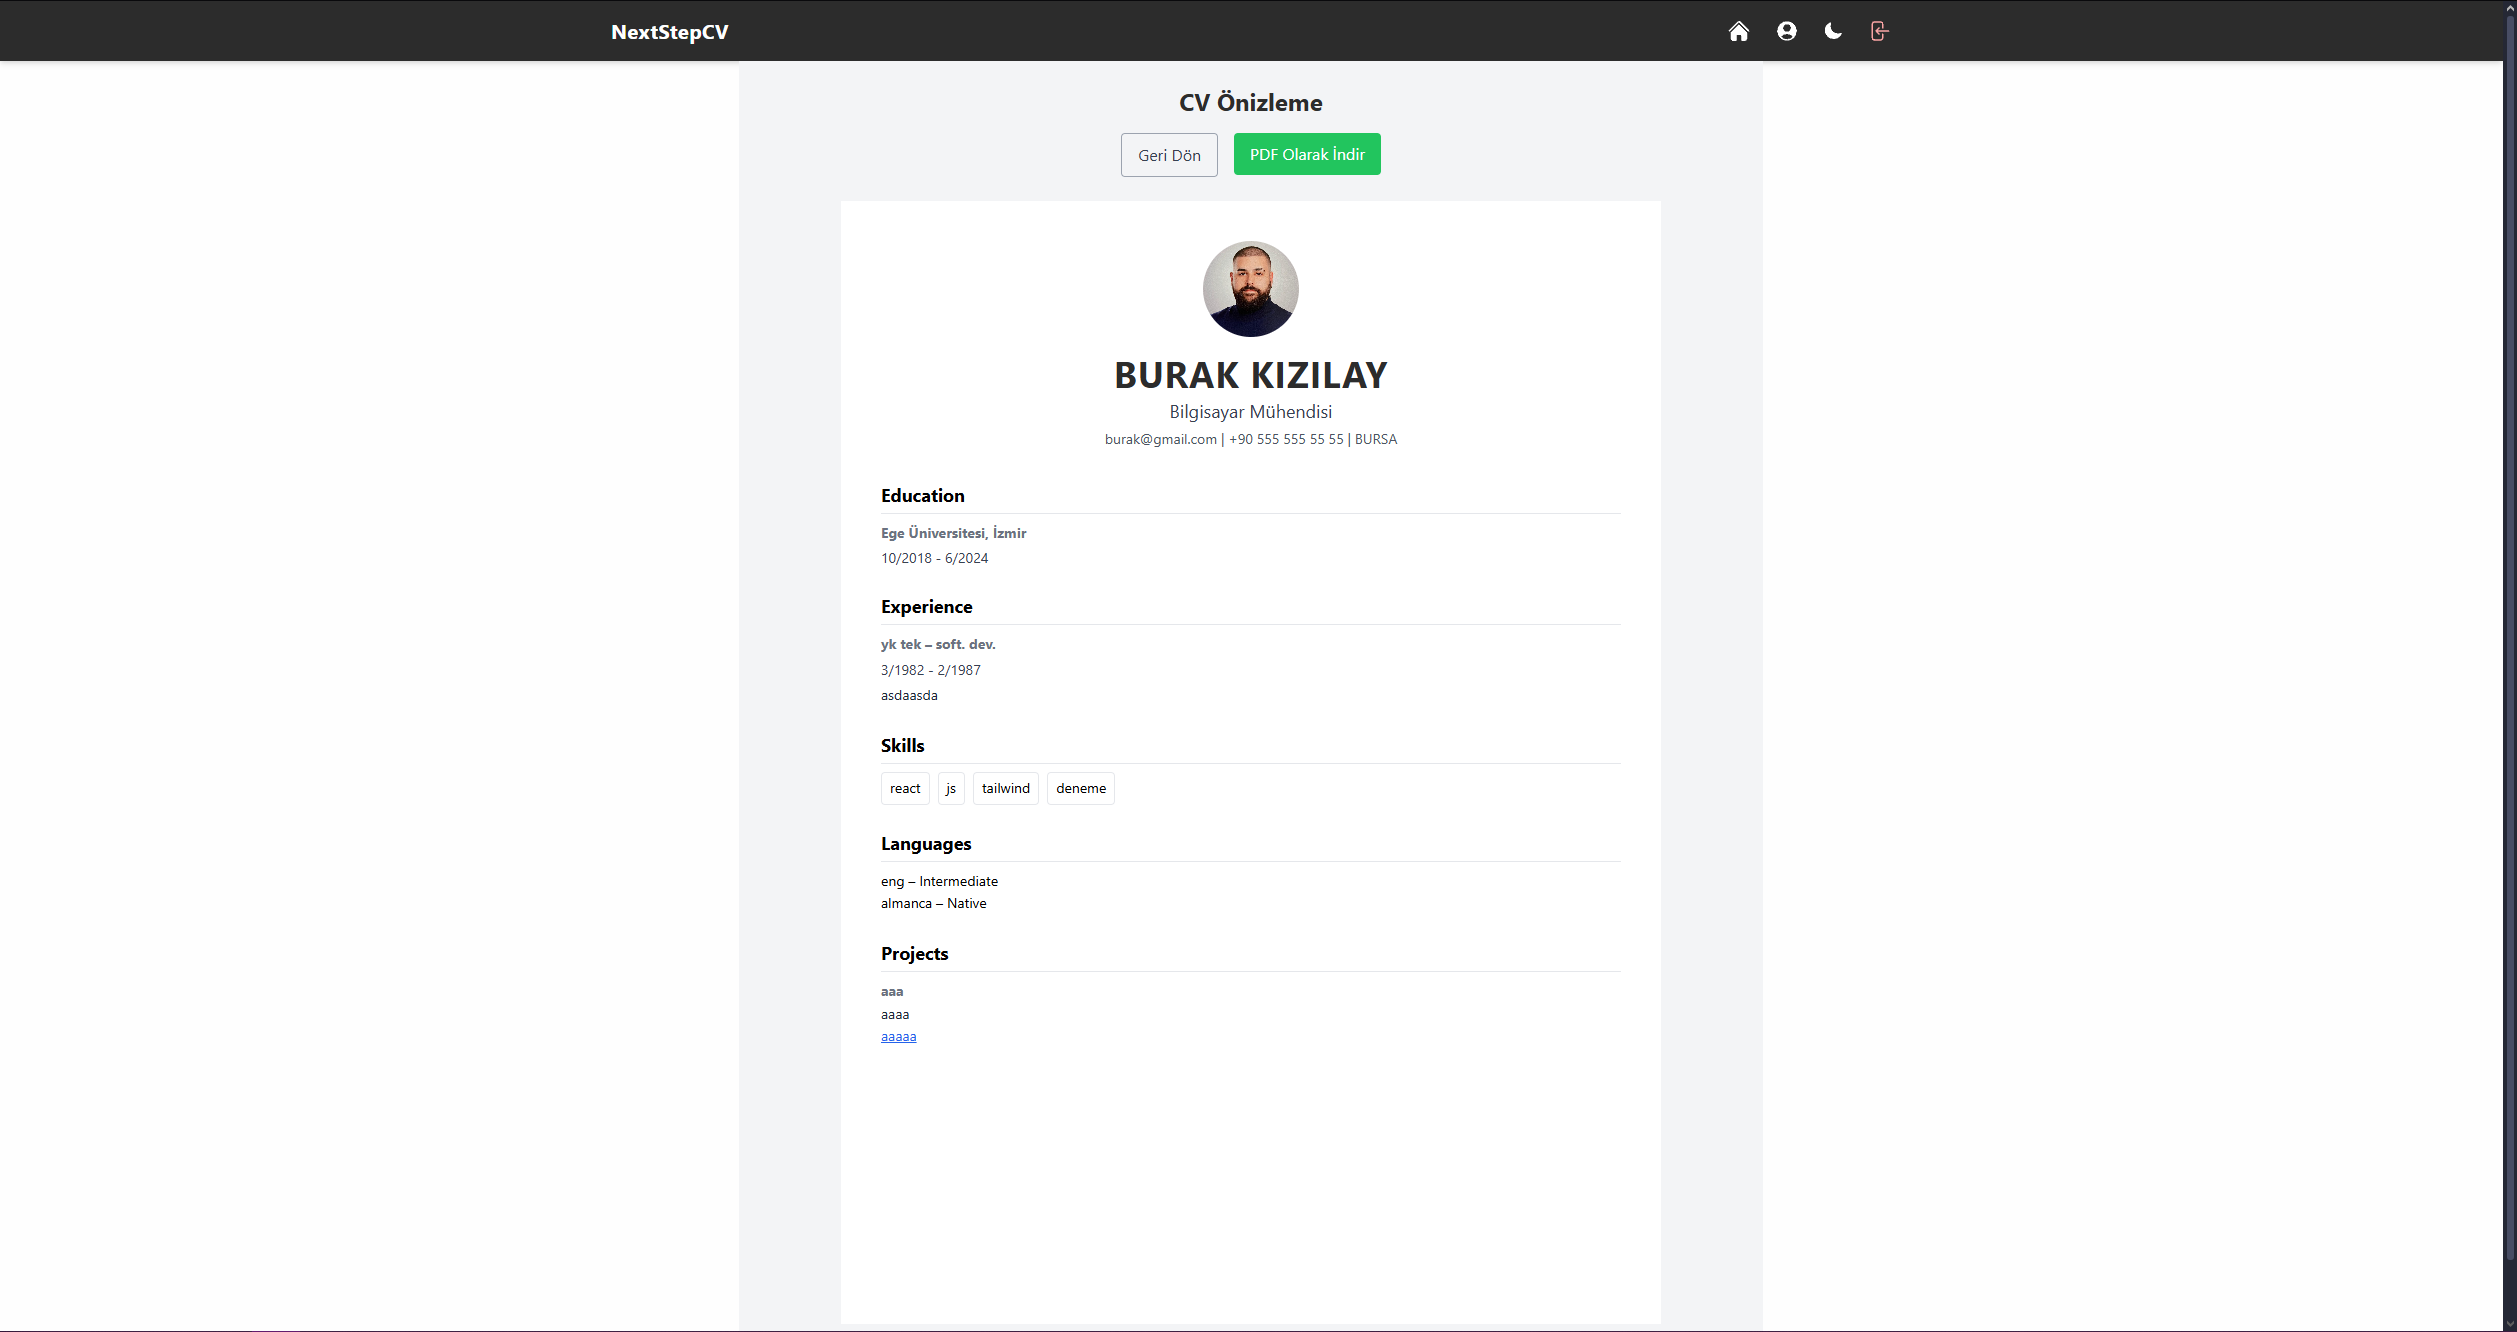
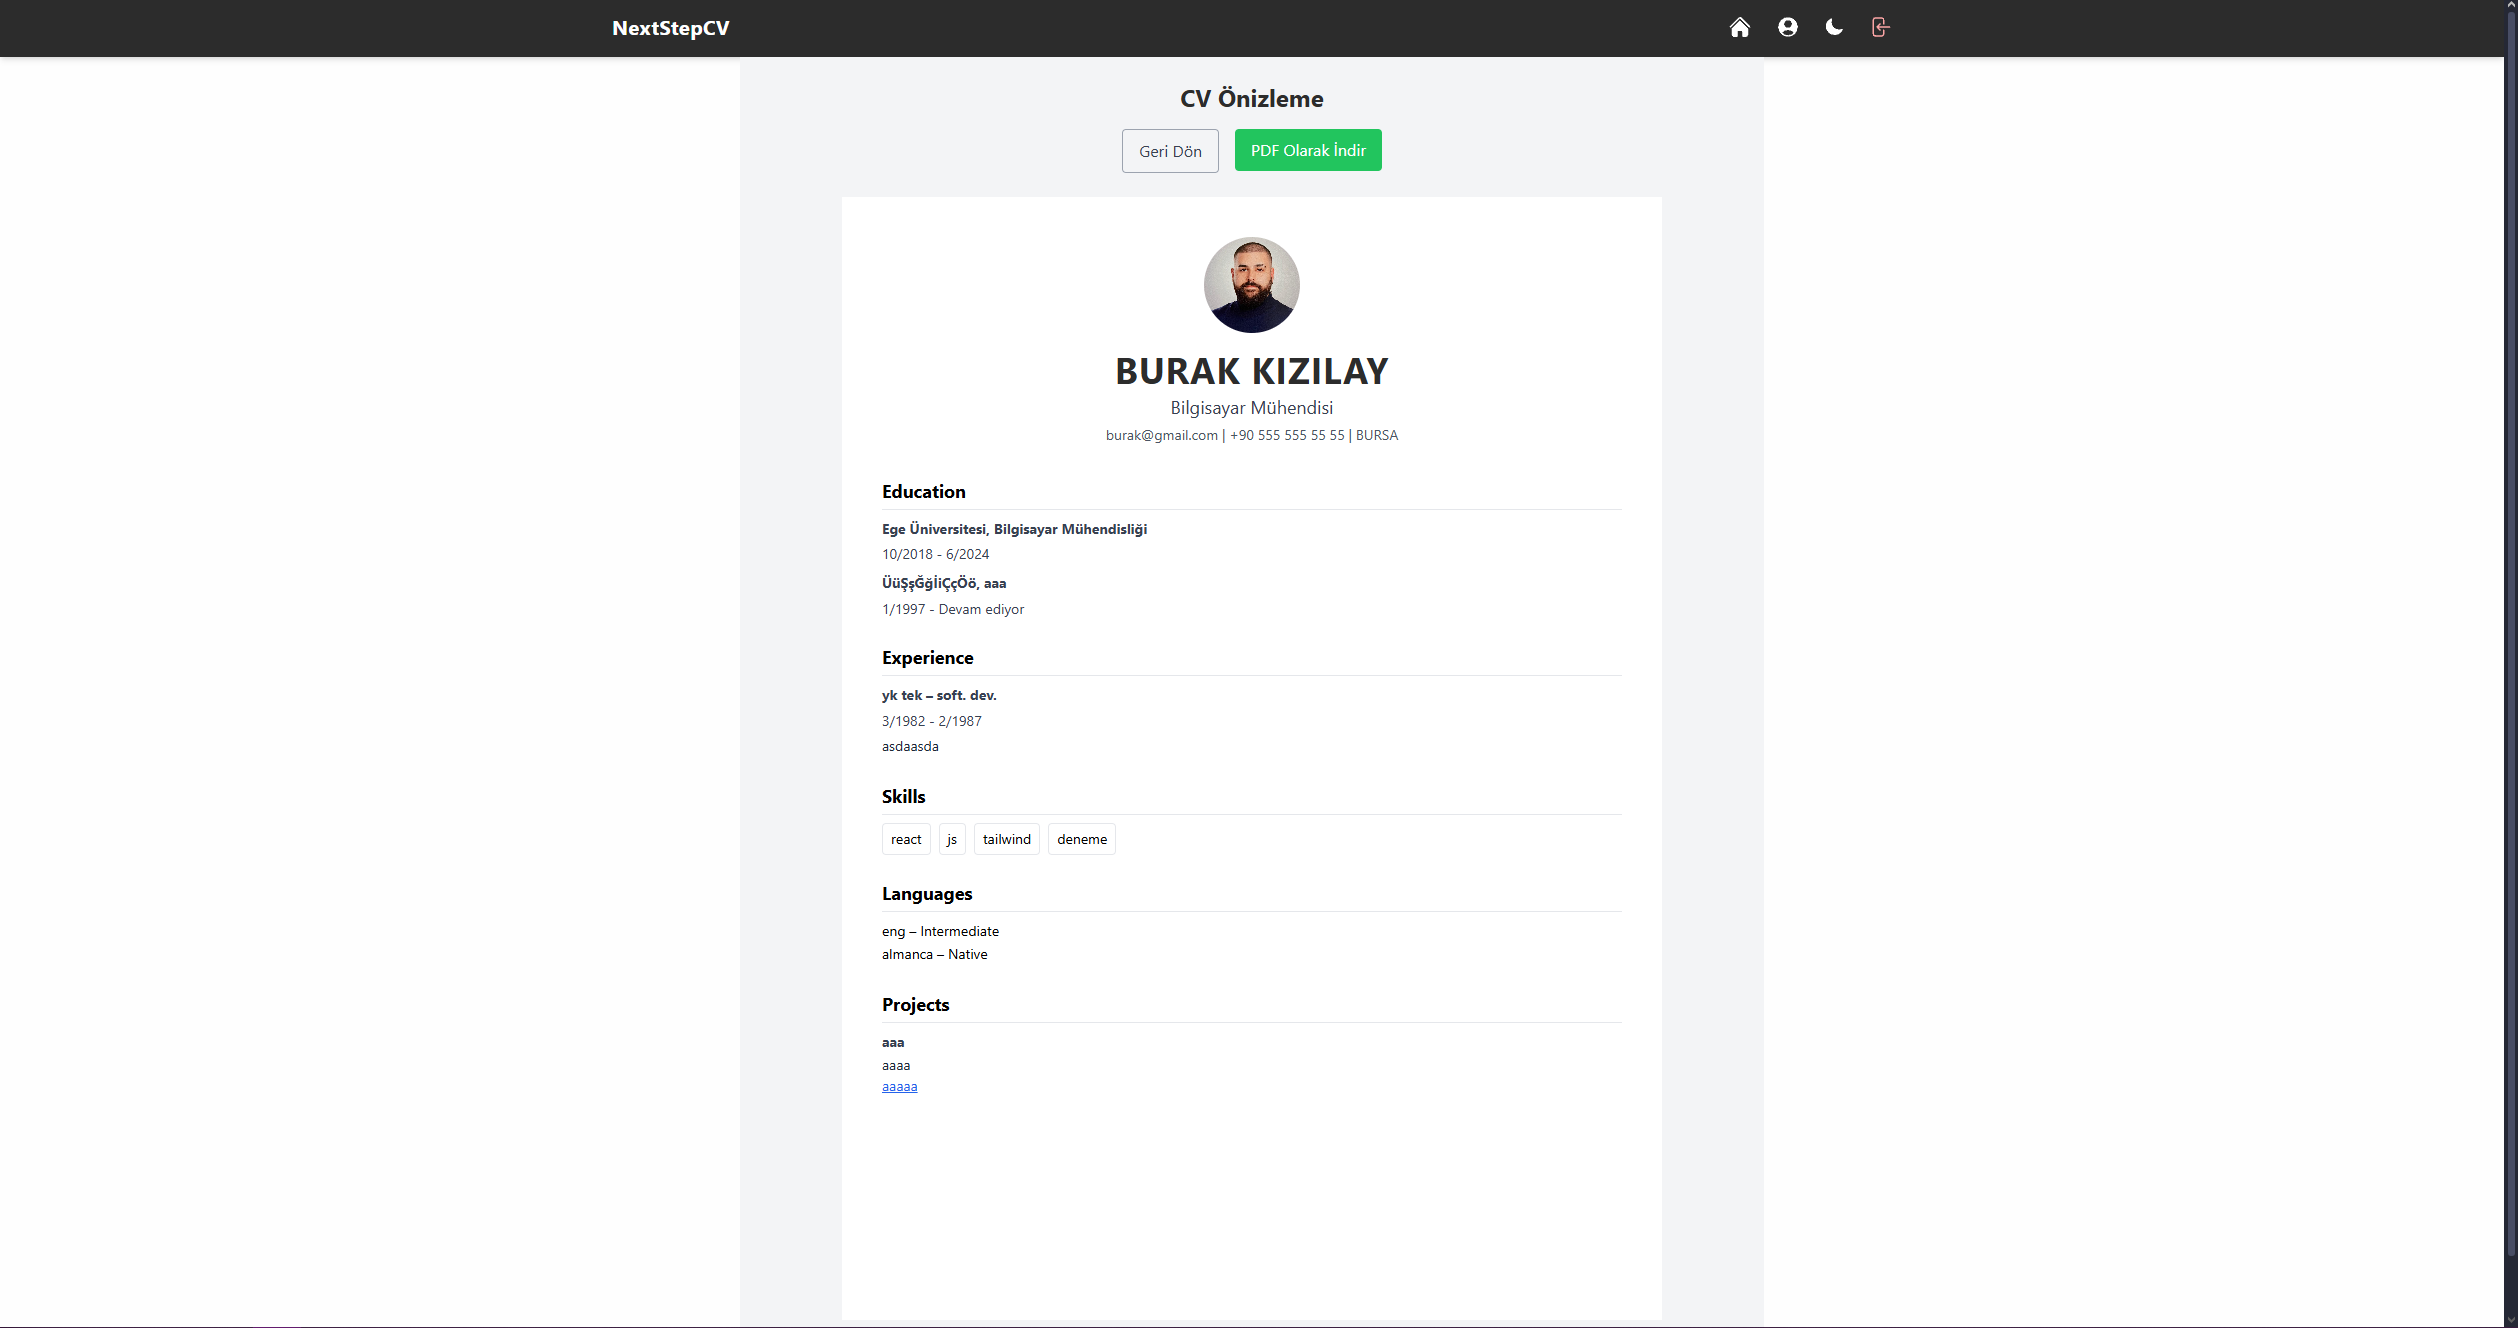
readme ss update. cvpdf margin update

diff --git a/src/components/pdf/CvPdf.jsx b/src/components/pdf/CvPdf.jsx
@@ -61,7 +61,7 @@ const styles = StyleSheet.create({
     marginBottom: 2,
   },
   itemText: {
-    marginBottom: 4,
+    marginBottom: 2,
   },
   skillItem: {
     display: "flex",
